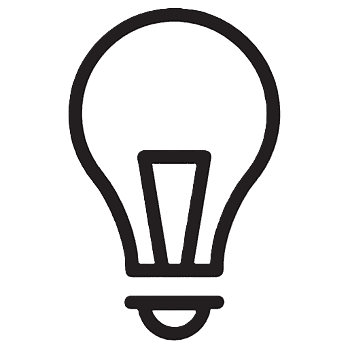
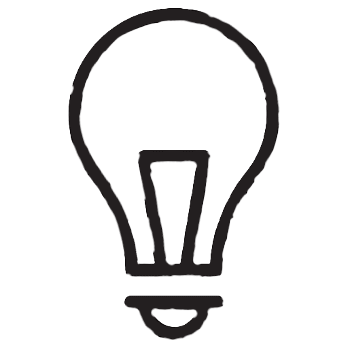
Refactor OpzioneGrafica and update CasaGrafica usage
Encapsulated fields in OpzioneGrafica, added getter methods, and refactored open/close logic to remove width parameter. Updated CasaGrafica to use new getters and revised method calls accordingly. Improved Text's toString method for better debugging. Updated lampadinaImg.png image.

diff --git a/CasaDomotica/src/OpzioneGrafica.java b/CasaDomotica/src/OpzioneGrafica.java
@@ -1,41 +1,52 @@
-import graphics.Rectangle;
-import graphics.Text;
+import graphics.*;
 
 public class OpzioneGrafica {
-    Rectangle riquadro;
-    Text nome;
-    Text idTesto;
-    String id;
-    double rapportoNome;
+    private Rectangle riquadro;
+    private Text nome;
+    private String id;
 
-    OpzioneGrafica(Rectangle riquadro, String nome, String id) {
+    private double initialX, initialY; // posizione iniziale del testo
+    private double initialWidth; // larghezza iniziale riquadro
+    private boolean isOpen = false;
+
+    OpzioneGrafica(Rectangle riquadro, String nomeStr, String id) {
         this.id = id;
         this.riquadro = riquadro;
-        this.nome = new Text(riquadro.getX(), riquadro.getY(), nome);
-        resize();
+        this.nome = new Text(riquadro.getX(), riquadro.getY(), nomeStr);
+
+        this.initialX = nome.getX();
+        this.initialY = nome.getY();
+        this.initialWidth = riquadro.getWidth();
     }
 
-    private void resize() {
-        if (riquadro.getWidth() != 0) {
-            rapportoNome = (double) nome.getWidth() / nome.getHeight();
-            nome.translate(0, -nome.getHeight() / 2.0);
-            nome.grow(0, riquadro.getHeight() / 2.0 - nome.getHeight() / 2.0);
-            nome.translate((riquadro.getHeight() / rapportoNome) / 2, riquadro.getHeight() / 2.0);
-
-        }
-    }
-
-    public void open(double mesure) {
-        if (riquadro.getWidth() == 0) {
-            riquadro.translate(mesure / 2, 0);
-            riquadro.grow(mesure / 2, 0);
+    public void open() {
+        if (!isOpen) {
+            riquadro.grow(150, 0);
+            riquadro.translate(150, 0);
+            nome.translate( nome.getWidth(), 0 );
+            System.out.println(nome);
+            isOpen = true;
         }
         riquadro.draw();
         nome.draw();
     }
 
+
     public void close() {
-        riquadro.translate(-riquadro.getWidth()/2.0, 0);
-        riquadro.grow(-riquadro.getWidth()/2.0, 0);
+        if (isOpen) {
+            riquadro.translate(-150, 0);
+            riquadro.grow(-150, 0);
+            nome.translate(-nome.getWidth(), 0);
+            System.out.println(nome);
+            isOpen = false;
+        }
+    }
+
+    public String getId() {
+        return id;
+    }
+
+    public Rectangle getRiquadro() {
+        return riquadro;
     }
 }

diff --git a/CasaDomotica/src/CasaGrafica.java b/CasaDomotica/src/CasaGrafica.java
@@ -72,7 +72,7 @@ public class CasaGrafica {
         }
 
         for (OpzioneGrafica option : lampadineMenu) {
-            option.open(300);
+            option.open();
         }
     }
 
@@ -94,7 +94,7 @@ public class CasaGrafica {
         if (menu != null) {
             if (!lampadineMenu.isEmpty()) {
                 OpzioneGrafica last = lampadineMenu.getLast();
-                Rectangle r = new Rectangle(last.riquadro.getX(), last.riquadro.getY() + last.riquadro.getHeight(), 300, 50);
+                Rectangle r = new Rectangle(last.getRiquadro().getX(), last.getRiquadro().getY() + last.getRiquadro().getHeight(), 300, 50);
                 r.setColor(Color.BLACK);
                 OpzioneGrafica opzione = new OpzioneGrafica(r, nome, Long.toString(casa.getGestore().getTutte().getLast().getId()));
                 lampadineMenu.add(opzione);
@@ -113,7 +113,7 @@ public class CasaGrafica {
 
     public OpzioneGrafica getOpzione(long id) throws LampadinaNonTrovataException {
         for(OpzioneGrafica option : lampadineMenu) {
-            if(option.id.equals(Long.toString(id))) {
+            if(option.getId().equals(Long.toString(id))) {
                 return option;
             }
         }
@@ -121,14 +121,14 @@ public class CasaGrafica {
     }
 
     public void selectLamp(long id) throws LampadinaNonTrovataException {
-        getOpzione(id).riquadro.setColor(Color.BLUE);
-        getOpzione(id).riquadro.fill();
+        getOpzione(id).getRiquadro().setColor(Color.BLUE);
+        getOpzione(id).getRiquadro().fill();
     }
 
     public void deselectLamps() {
         for (OpzioneGrafica opzione : lampadineMenu) {
-            opzione.riquadro.setColor(Color.BLACK);
-            opzione.riquadro.draw();
+            opzione.getRiquadro().setColor(Color.BLACK);
+            opzione.getRiquadro().draw();
         }
     }
 }

diff --git a/CasaDomotica/src/graphics/Text.java b/CasaDomotica/src/graphics/Text.java
@@ -13,6 +13,7 @@ public class Text implements Shape
     private double xGrow;
     private double yGrow;
 
+
     /**
      * Constructs a text at a given location.
      * @param x the leftmost x-position of the shape
@@ -108,7 +109,7 @@ public class Text implements Shape
    
     public String toString()
     {
-        return "Text[x=" + getX() + ",y=" + getY() + ",message=" + label.getText() + "]";
+        return "Text[x=" + getX() + ",y=" + getY() + ",message=" + label.getText() + ",xGrow=" + getWidth() + ",yGrow" + getHeight() + "]";
     }
 
     public void paintShape(Graphics2D g2)
